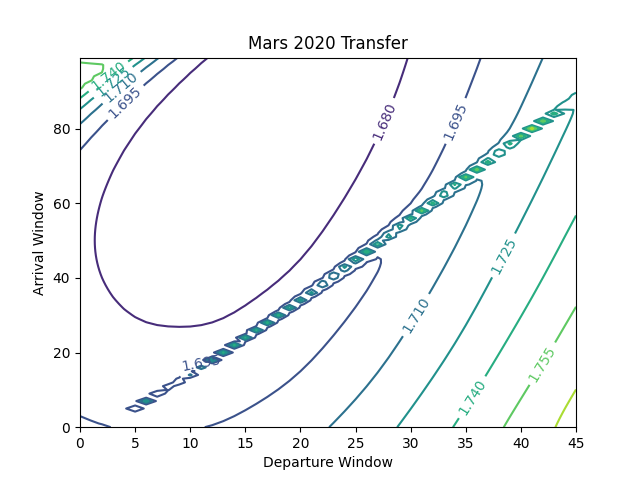
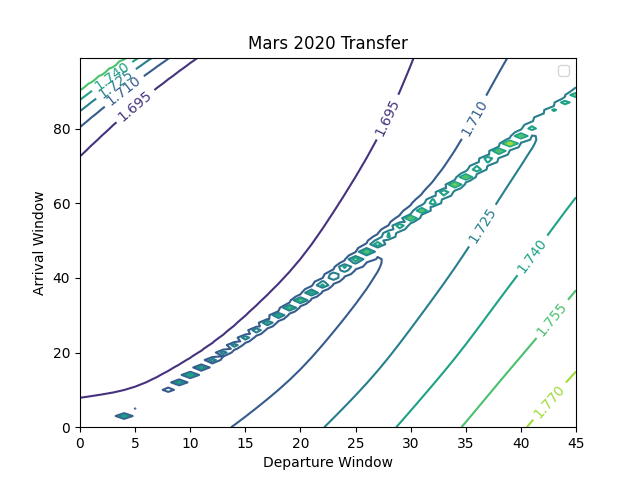
continued work on bringing values closer

diff --git a/Gravitas_Py_3.0/Porkchop_3.0/ephemeris_plot.py b/Gravitas_Py_3.0/Porkchop_3.0/ephemeris_plot.py
@@ -98,7 +98,7 @@ ets_ar = np.arange(et_ar0, et_ar1, step)
 # Define target and observer
 target = "MARS BARYCENTER"
 origin = "EARTH"
-observer = "SUN"
+observer = "SOLAR SYSTEM BARYCENTER"
 frame = "ECLIPJ2000"
 abcorr = "NONE"
 
@@ -109,6 +109,7 @@ trajectory_arrival = np.array([spice.spkezr(target, et, frame, abcorr, observer)
 
 
 porkchop_array = np.zeros((len(trajectory_arrival),len(trajectory_departure)))
+vinfinity_array = np.zeros((len(trajectory_arrival),len(trajectory_departure)))
 
 
 for i in range(len(trajectory_arrival)):
@@ -118,19 +119,22 @@ for i in range(len(trajectory_arrival)):
     for j in range(len(trajectory_departure)):
         
 
-        lambert = izzo.lambert(Sun.k, trajectory_departure[j][:3]*u.m, trajectory_arrival[i][:3]*u.m, (ets_ar[i]*u.s - ets_de[j]*u.s),M=1)   # :3
+        lambert = izzo.lambert(Sun.k, trajectory_departure[j][:3]*u.m, trajectory_arrival[i][:3]*u.m, (ets_ar[i]*u.s - ets_de[j]*u.s),M=0)   # :3
 
         v0, v = next(lambert)
 
         vp = trajectory_departure[j][3:]/1000
 
+        va = trajectory_arrival[i][3:]/1000
+
+
         v_0 = v0/1000
 
-        v_esc = np.sqrt(2 * Earth.k.value / 6371E3)/1000
-
         vp_norm = vp / mag(vp)
-
+        
         c3 = np.abs(mag(v_0.value-vp))**2
+
+        v_inf_ar = np.abs(mag(v.value/1000 - va))
 
         ##v_0: km/s
         ##v_esc: km/s
@@ -145,7 +149,10 @@ for i in range(len(trajectory_arrival)):
         #print(v0)
         #print(trajectory_departure[j][3:])
         #if c3 < 900000000:
+
+        #if c3 < 20:
         porkchop_array[i][j] = c3
+        vinfinity_array[i][j] = v_inf_ar
 
 
 CS = plt.contour(np.arange(len(trajectory_departure)),np.arange(len(trajectory_arrival)), porkchop_array, label='c3')
@@ -153,8 +160,19 @@ plt.clabel(CS, inline=1, fontsize=10)
 plt.title('Mars 2020 Transfer')
 plt.xlabel('Departure Window')
 plt.ylabel('Arrival Window')
-plt.savefig(f'{dir}/video_output/pork.png')
 plt.legend()
+plt.savefig(f'{dir}/video_output/pork.png')
+
+plt.show()
+
+CS1 = plt.contour(np.arange(len(trajectory_departure)),np.arange(len(trajectory_arrival)), vinfinity_array, label='c3')
+plt.clabel(CS1, inline=1, fontsize=10)
+plt.title('Mars 2020 Transfer')
+plt.xlabel('Departure Window')
+plt.ylabel('Arrival Window')
+plt.legend()
+plt.savefig(f'{dir}/video_output/vinf.png')
+
 plt.show()
 
 
@@ -165,7 +183,7 @@ delete_contents(image_folder)
 #ax = fig.add_subplot(111, projection='3d')
 #ax.scatter(0,0,0)
 
-
+spice.kclear()
 
 """
 for i in range(300):
@@ -186,7 +204,7 @@ plt.savefig(f'{dir}/fig/im.png',dpi=300)
 #video_manager(image_folder, output_video_file, 60)
 plt.show()
 # Unload kernels after use to prevent data leaks
-spice.kclear()
+
 """
 
 """
